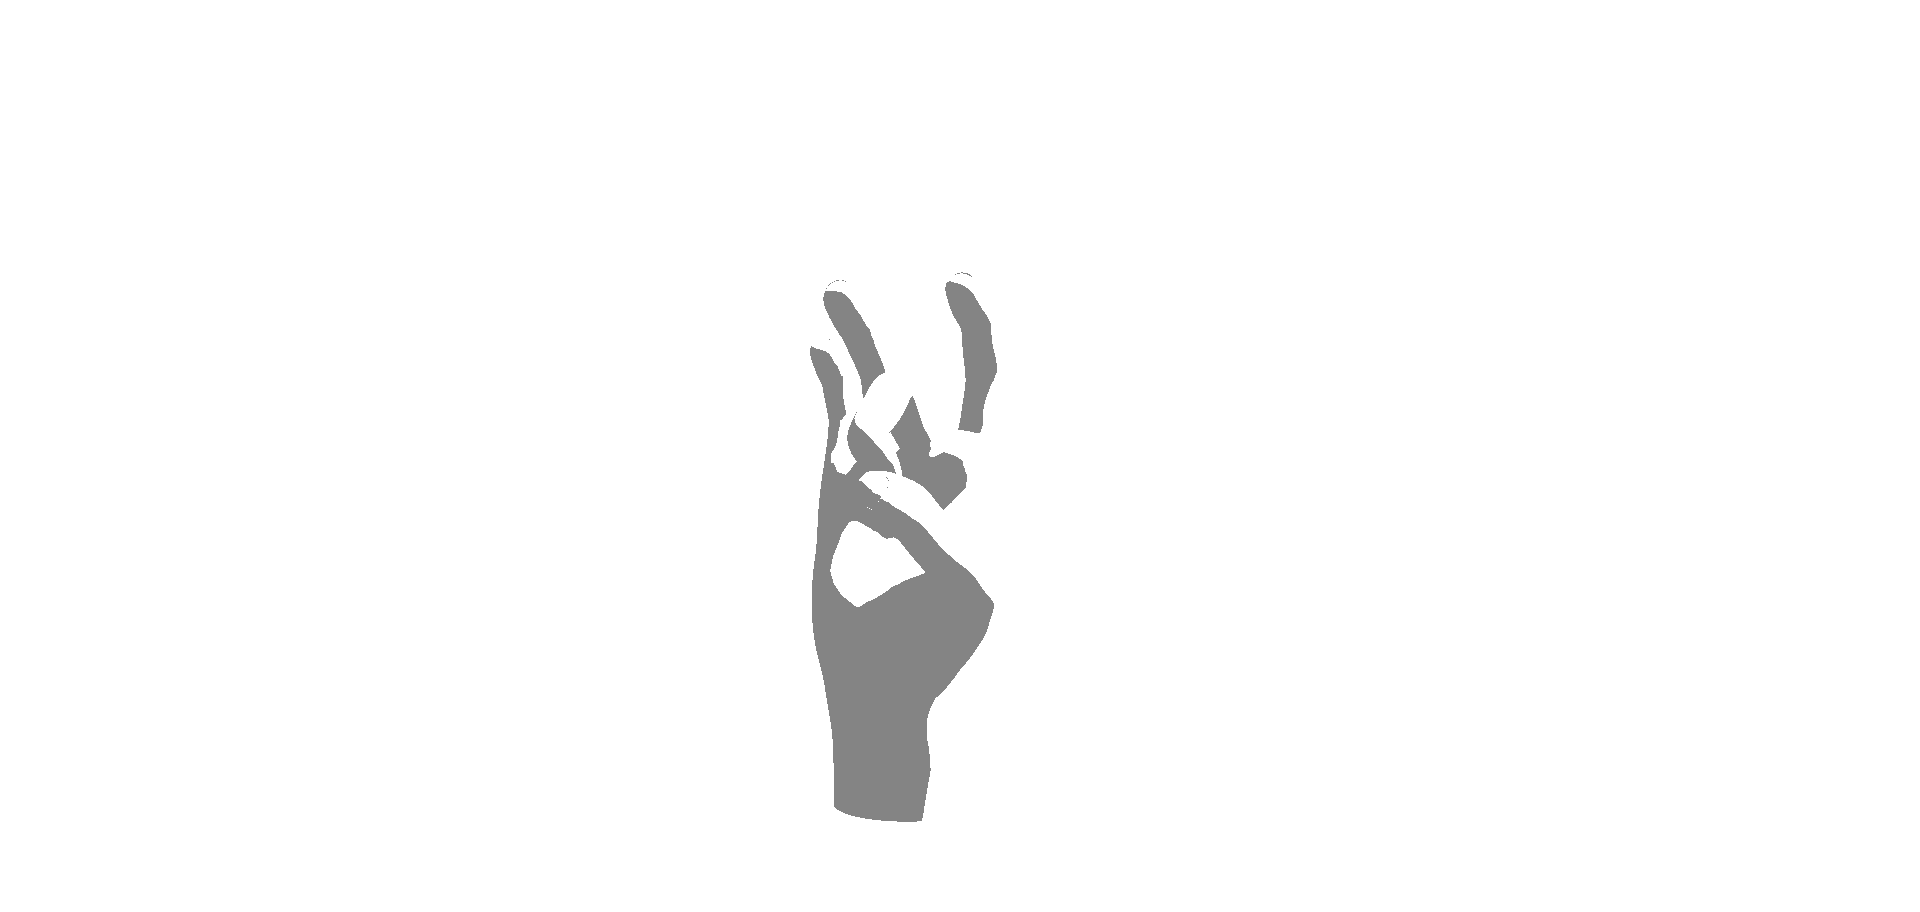
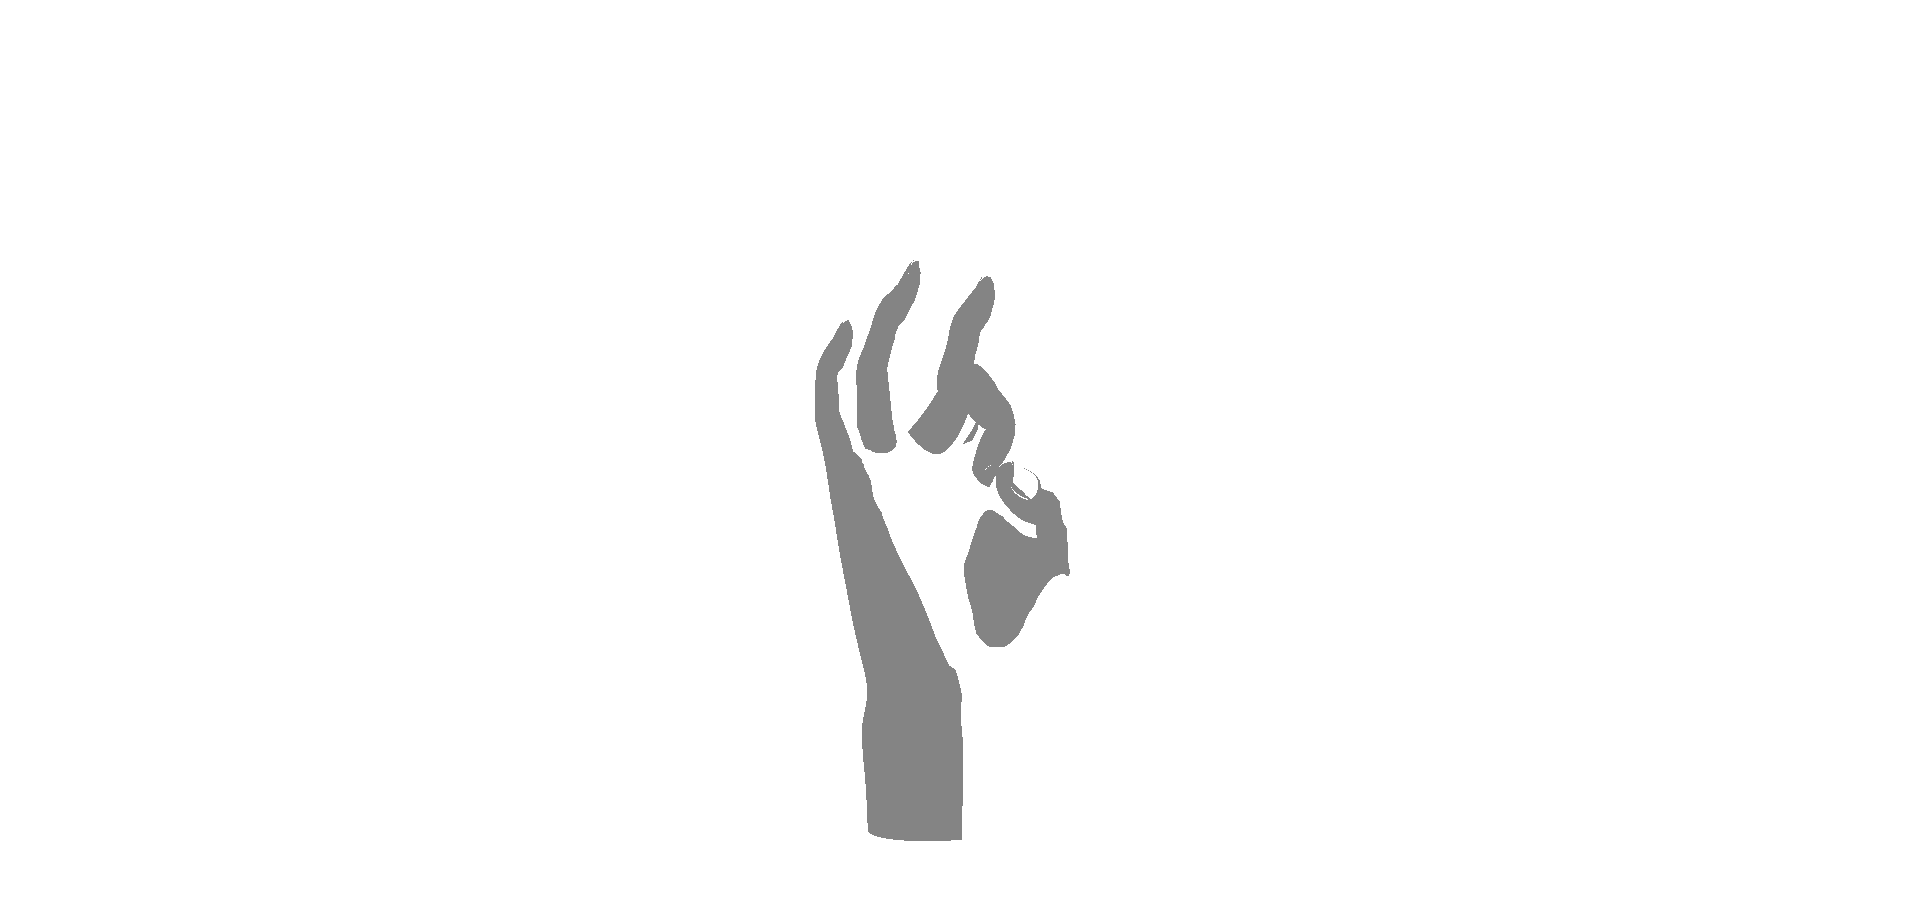
Re-sync Front Pinky Drag reference images; document Delete-button fix
Isolated commit for this session's own work on the drag-point-annotator
tool and its docs -- built via a scoped git apply --cached patch since
another concurrent session has since further extended
drag-point-annotator.html (a newer, more complete annotation pass plus
a new Flick category) on top of this work; that file and its own new
reference images are left for that session to commit separately.

- scripts/active/drag-frames/front-pinky-drag-{01,48}.png: re-synced
  from DICKOCLICKO after its own FRONT PINKY DRAG / FRONT THUMB DRAG
  placeholder-duplicate bug was fixed at the source (verified via
  md5sum, not assumed).
- docs/PROJECT_PROGRESS.md, docs/CHANGELOG.txt: document that re-sync,
  the resulting full annotation pass, and the Delete-button visibility
  fix (see index.html commit 5c56d7e).

Changed region(s): [[0.4062, 0.2763, 0.5625, 0.9211]]

diff --git a/docs/PROJECT_PROGRESS.md b/docs/PROJECT_PROGRESS.md
@@ -32,16 +32,23 @@ of DICKOCLICKO's animation-variant sets (Drag, Sciss, Tickle), each
 direction's own first AND last frame (frame numbers verified
 per-category — Sciss actually ends at 045, not 048), multiple points
 per image (click to add, click on a point to remove) — mobile-
-responsive too. **Drag category now has real seeded points** (6
-directions x 2 frames, baked into the file as SEED_DRAG_POINTS) —
-Sciss and Tickle still await their own annotation pass, the user's own
-next step (same as flick-skeleton-annotator.html's own joint data).
-"front" originally had no Drag frames at all — fixed at
-the DICKOCLICKO source 2026-09-12. Still open: Drag's `FRONT PINKY
-DRAG`/`FRONT THUMB DRAG` are byte-for-byte identical folders (verified
-via md5sum) — very likely one was copy-pasted as a placeholder and
-never replaced with its own real animation; needs fixing at the
-DICKOCLICKO source before that direction's own Drag animation is real.
+responsive too. "front" originally had no Drag frames at all — fixed
+at the DICKOCLICKO source 2026-09-12. Drag's `FRONT PINKY DRAG`/`FRONT
+THUMB DRAG` used to be byte-for-byte identical folders (verified via
+md5sum) — **fixed at the DICKOCLICKO source 2026-09-14**, re-verified
+via md5sum that frame 001/048 now genuinely differ, and the 2 local
+reference copies in `scripts/active/drag-frames/` were re-synced to
+match.
+
+**Real annotation pass completed 2026-09-14** (a pasted Copy JSON dump
+baked into SEED_DRAG_POINTS, same pattern as flick-skeleton-annotator.html's
+own joint data): **Drag is now fully annotated** — all 8 directions,
+both frames (01 and 48) each, 16 points total, including a fresh
+Front Pinky annotation against the newly-fixed real image (not the old
+placeholder). **Sciss and Tickle are each half-annotated** — all 8
+directions have a point on frame 01, but frame 45 (Sciss) / frame 48
+(Tickle) still have none — 8 points each, 16 total, still open as the
+user's own next step for those 2 categories' own last frame.
 
 **Open item:** a real mobile-lag report ("placing, rotating, moving...
 very very laggy") was addressed with 2 well-established canvas
@@ -349,6 +356,30 @@ this note is now complete, committed, and pushed (`751f84d`) — see
   `CHANGELOG.txt`'s own entry for the full verification list and one
   real bug caught+fixed during implementation (2 dev-panel labels
   sharing a row corrupted each other's text).
+
+- Fixed a real regression from the Level System refactor above: Delete
+  (which pre-dates Level Maker entirely — deletes placed ENTITIES, a
+  core mechanic independent of any editing context) had been swept
+  into the same `editing ? '' : 'none'` visibility gate as Ball/
+  Rectangle/Target/Hand (all genuinely Level-Maker/Sandbox-only
+  authoring tools), so it silently disappeared in plain Play mode.
+  User report: "in regular mode, there should still be a delete
+  button." Fixed in `refreshSimControlsVisibility()` by giving
+  `deleteBtn` its own unconditional `display = ''`, leaving the other
+  4 buttons' editing-only gating untouched — the actual delete-click
+  handler already had zero dependency on `levelEditMode`, so this was
+  a pure visibility fix, no behavior change. Verified live: confirmed
+  via direct DOM inspection that in plain mode `deleteBtn.style.display
+  === ''` while `ballBtn`/`rectBtn`/`targetBtn`/`handBtn` all stay
+  `'none'`, and that Sandbox/Level Maker mode still shows all 5 as
+  before. **Separately flagged, not fixed** (pre-existing, unrelated to
+  this fix): at a narrow browser-pane width, `.sim-controls` (fixed
+  top-left) and `.sim-controls-right` (fixed top-right) visually
+  overlap — confirmed this already happened with the full 5-button
+  Delete/Ball/Rectangle/Target/Hand row in Sandbox/Level Maker mode
+  before this fix, so it's a pre-existing responsive-layout gap this
+  fix newly exposes in plain mode too (since Delete is now visible
+  there), not something this fix introduced.
 
 - Dev panel engine brought up to date with `TEMPLATE_DEV_PANEL.html`'s
   2026-09-14 changes (CLAUDE.md §12): reordering (groups and settings
